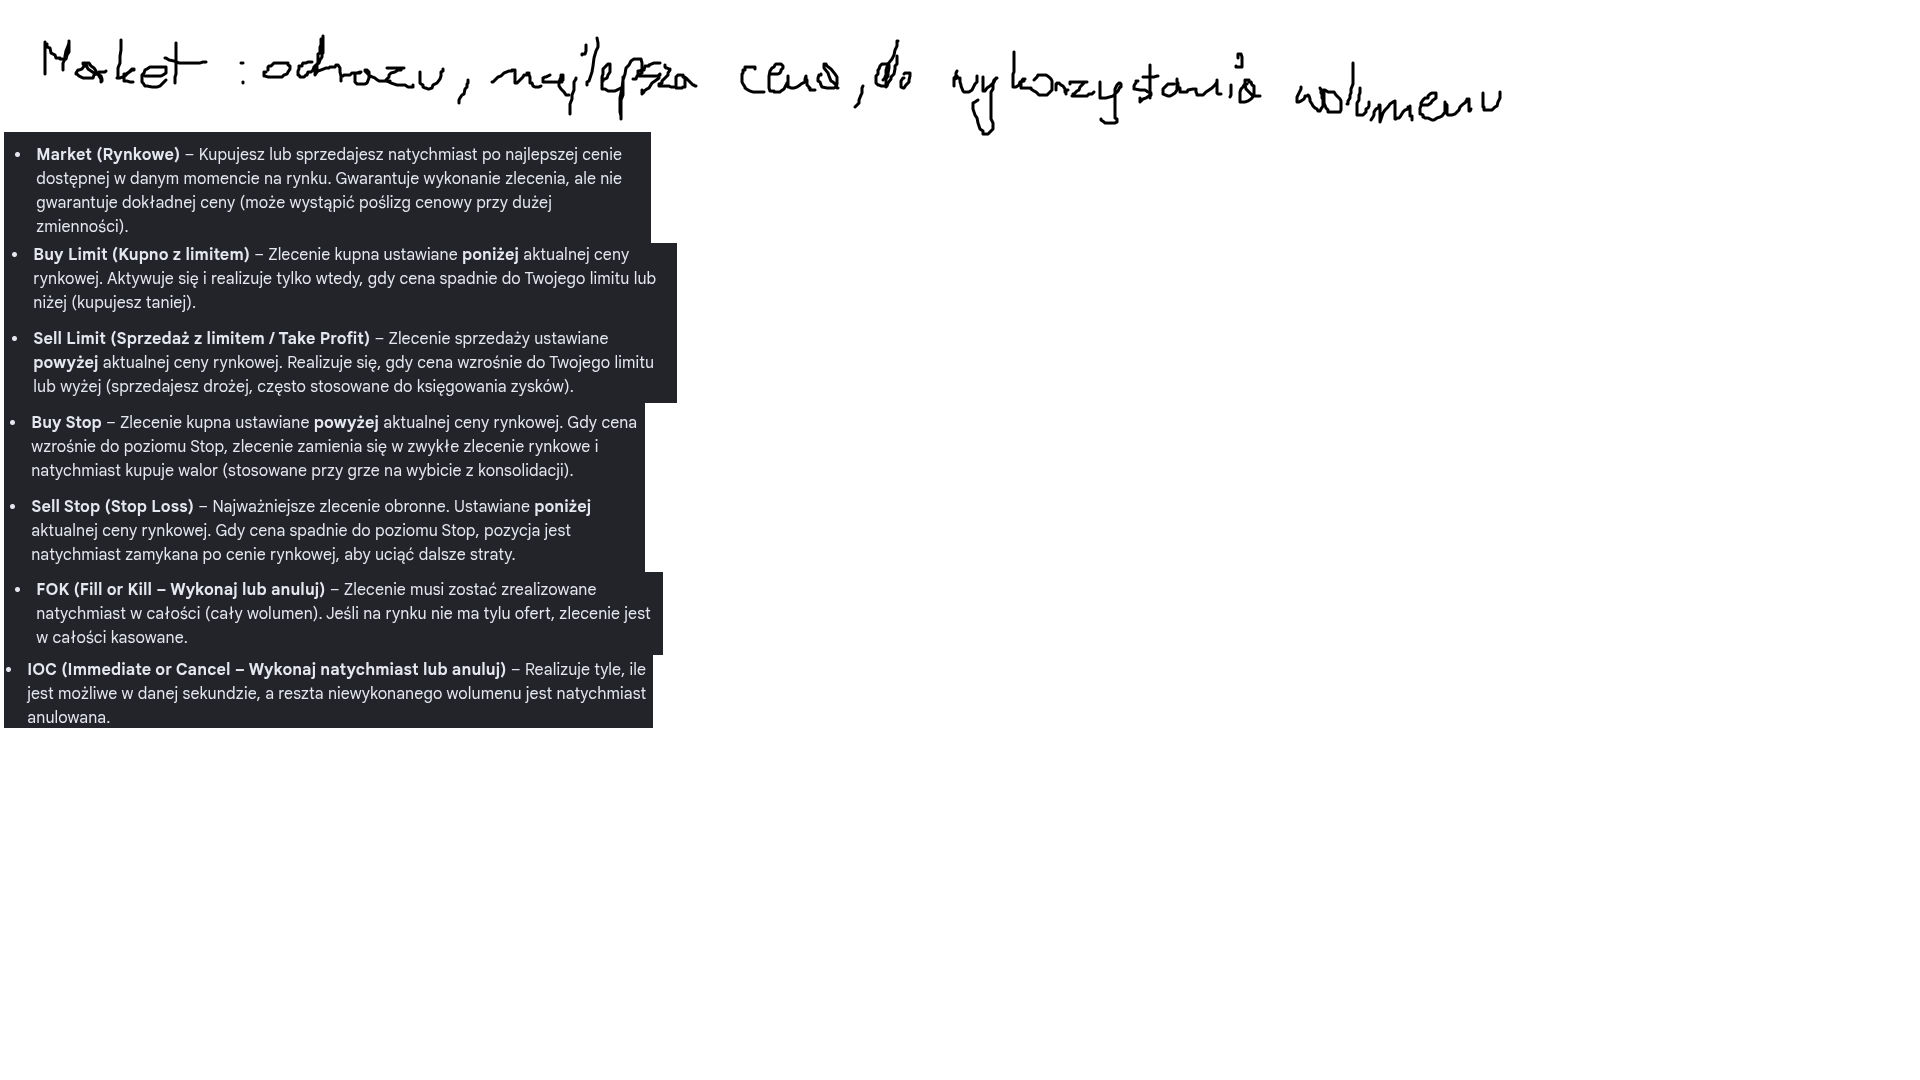
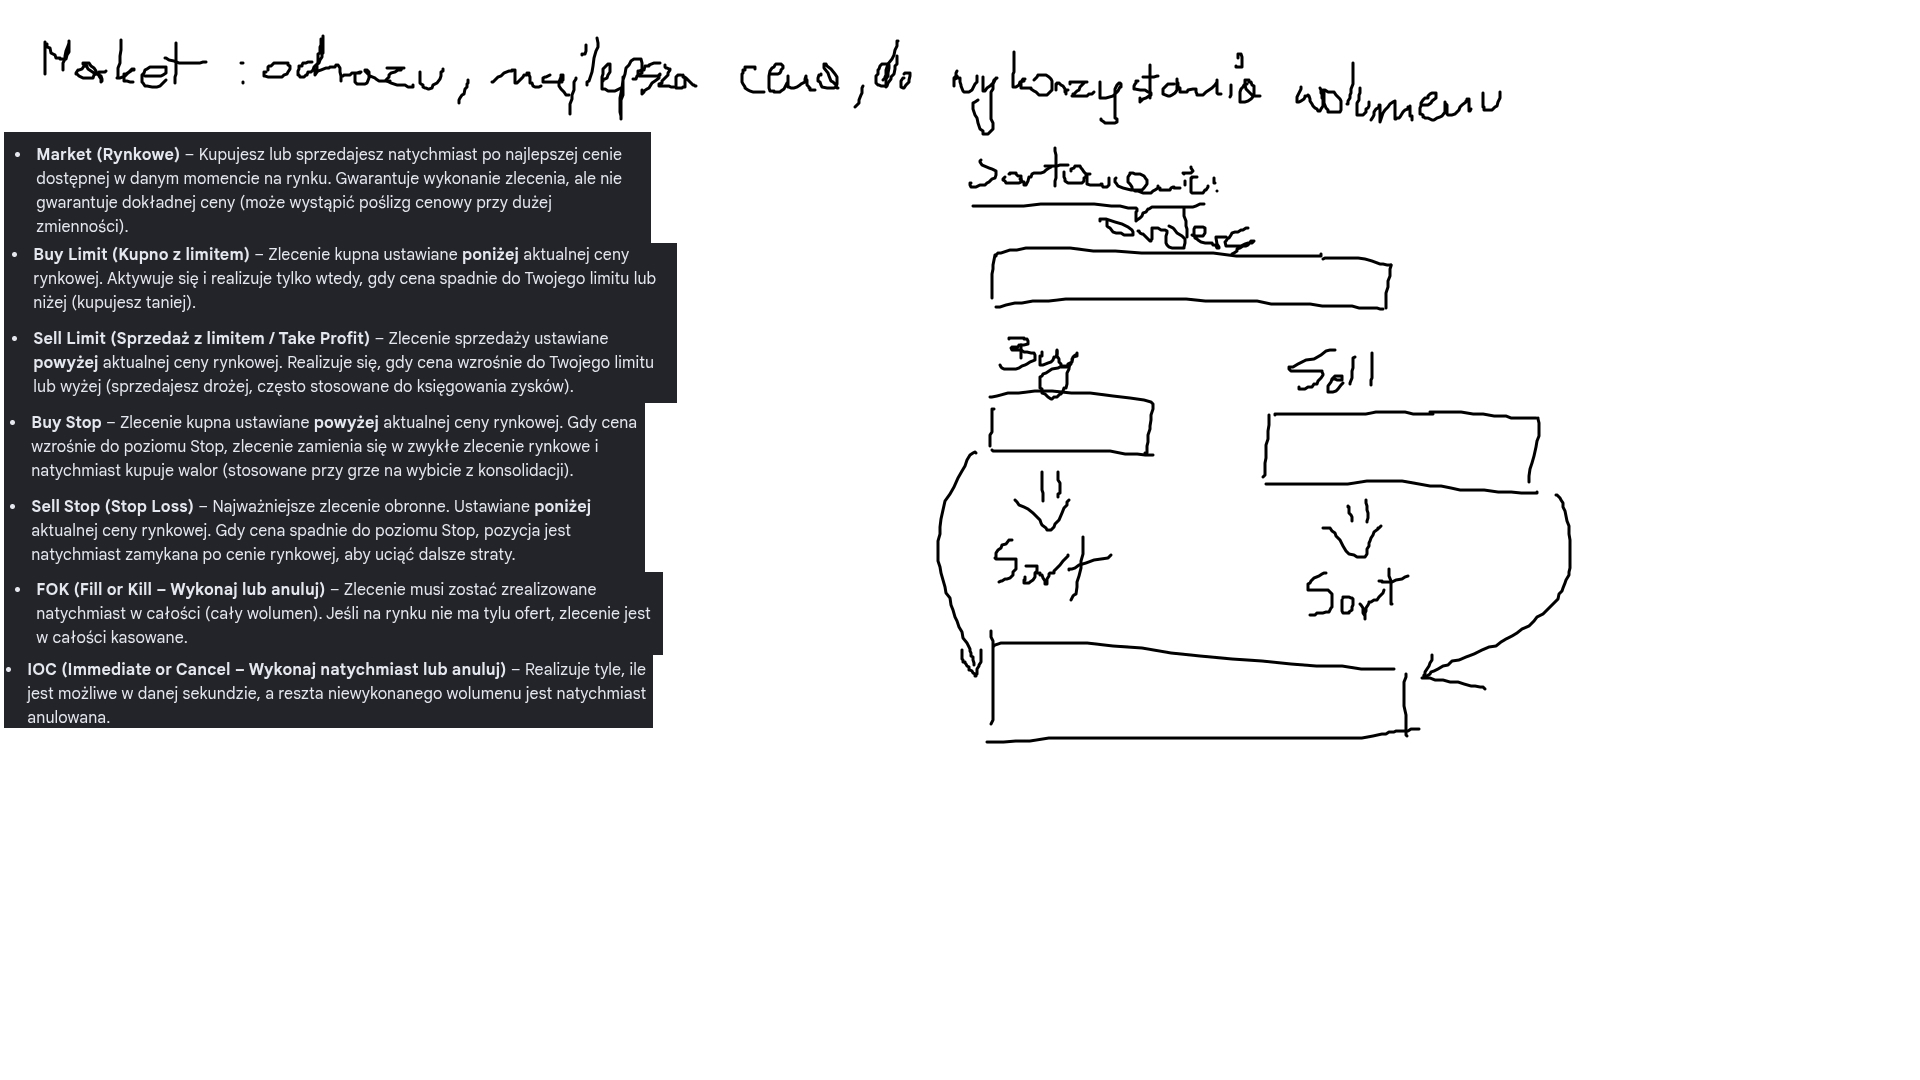
Added Meyers Singleton for OrderBook class, designing TUI for orders, user menu

diff --git a/main.cpp b/main.cpp
@@ -4,6 +4,12 @@
 
 #include "OrderBook.h"
 
+#define RESET   "\033[0m"
+#define RED     "\033[31m"      /* Red */
+#define GREEN   "\033[32m"      /* Green */
+
+
+
 namespace ID {
 	size_t get_unique_id() {
 		static size_t id {};
@@ -12,17 +18,25 @@ namespace ID {
 	}
 }
 
-int main() {
+bool input_validation(int &user_choice) {
+	if (!(std::cin >> user_choice)) {
+		std::cin.clear();            
+		std::cin.ignore(1000, '\n'); 
+		return true;
+        }
+        return false;
+}
 
-	OrderBook ob("OrderBook");
+int main() {
+	std::string name { "Main OrderBook" };
+	auto &ob = OrderBook::getInstance(name);
+
 	// These pointers have ownership only for easy making an object, its only for a while	
 	std::unique_ptr<Order> order1 = std::make_unique<Order>(Order(ID::get_unique_id(), Order::Side::Buy, 4180.50, 22, Order::Type::Market)); 
 	std::unique_ptr<Order> order2 = std::make_unique<Order>(Order(ID::get_unique_id(), Order::Side::Buy, 4180.75, 15, Order::Type::Market));
 	std::unique_ptr<Order> order3 = std::make_unique<Order>(Order(ID::get_unique_id(), Order::Side::Sell, 4181.00, 18, Order::Type::Market)); //
 	std::unique_ptr<Order> order4 = std::make_unique<Order>(Order(ID::get_unique_id(), Order::Side::Sell, 4181.25, 5, Order::Type::Market)); 
 	std::unique_ptr<Order> order5 = std::make_unique<Order>(Order(ID::get_unique_id(), Order::Side::Buy, 4180.25, 20, Order::Type::Market));
-	std::unique_ptr<Order> order6 = std::make_unique<Order>(Order(ID::get_unique_id(), Order::Side::Buy, 4180.60, 2, Order::Type::Market));
-	//std::unique_ptr<Order> order7 = std::make_unique<Order>(Order(ID::get_unique_id(), Order::Side::Buy, 4181.25, 20, Order::Type::Market)); //
 	
 	// With these methods we are moving ownership to the vector of uniquepointers pointing to the each of the orders
 	ob.add_order(order1);
@@ -30,8 +44,6 @@ int main() {
 	ob.add_order(order3);
 	ob.add_order(order4);
 	ob.add_order(order5);
-	ob.add_order(order6);
-	//ob.add_order(order7);
 
 
 	int user_choice { };
@@ -42,7 +54,8 @@ int main() {
 		std::cout << "\nOption:"; 
 		std::cout << "\n1. Market"; 
 		std::cout << "\n2. Limit";
-		std::cout << "\nWybor: "; 
+		std::cout << "\n0. Quit";
+		std::cout << "\nChoose: "; 
 
         	if (!(std::cin >> user_choice)) {
 			std::cin.clear();            
@@ -52,10 +65,51 @@ int main() {
 
         	switch (user_choice) {
         		case 1: {
-				break;
+        			int user_choice { };
+				std::cout << "\nOption:";
+				std::cout << "\n1. Buy";
+				std::cout << "\n2. Sell";
+				std::cout << "\nChoose:";
+
+				if(input_validation(user_choice)) {
+					continue;
+				}
+
+
+				switch (user_choice) {
+					case 1: {
+							std::cout << "You choosed buy";
+							break;
+						}
+					case 2: {
+							std::cout << "You choosed sell";
+							break;
+						}
+				}
+			break;
 			}
 			case 2: {
-				break;
+        			int user_choice { };
+				std::cout << "\nOption:";
+				std::cout << "\n1. Buy";
+				std::cout << "\n2. Sell";
+				std::cout << "\nChoose:";
+	
+				if(input_validation(user_choice)) {
+					continue;
+				}
+
+				switch (user_choice) {
+					case 1: {
+							std::cout << "You choosed buy";
+							break;
+						}
+					case 2: {
+							std::cout << "You choosed sell";
+							break;
+						}
+				}
+			break;
 			}
 		}
 

diff --git a/OrderBook.h b/OrderBook.h
@@ -16,6 +16,14 @@
 #include <string>
 #include <vector>
 
+
+#define RESET   "\033[0m"
+#define RED     "\033[31m"      /* Red */
+#define GREEN   "\033[32m"      /* Green */
+#define YELLOW  "\033[33m"      /* Yellow */
+
+
+
 class Order {
 
 	public:
@@ -62,6 +70,8 @@ class OrderBook {
 
 		double m_bid_price { };
 		double m_ask_price { };
+
+		OrderBook(std::string name) : m_name(name) {}
 	
 		void sort_orders() {
 			if (orders.size() > 1){
@@ -97,10 +107,16 @@ class OrderBook {
 			}
 		}
 
-
 	public:
-		OrderBook(std::string name) : m_name(name) {}
 		~OrderBook() = default;
+
+		static OrderBook& getInstance(std::string& name) {
+			static OrderBook instance(name);
+			return instance;
+		}
+
+		OrderBook(const OrderBook& other) = delete;
+		void operator=(const OrderBook& other) = delete;
 
 		const std::string& get_name() const {
 			return m_name;
@@ -121,6 +137,12 @@ class OrderBook {
 		double get_bid_price() const {
 			return m_bid_price;
 		}
+
+		double calc_spread() const {
+			return m_ask_price - m_bid_price;	
+		}
+
+
 		
 		void add_order(std::unique_ptr<Order>& order) {
 				// Jesli mamy taka sama cene oraz taki sam typ to trzeba zmienic wolumen juz istniejacego w vectorze orderu a nie nowy
@@ -134,6 +156,7 @@ class OrderBook {
 				sort_orders();
 				// Aktualizuje ceny bid i ask				
 				update_bid_ask();
+				
 			
 		}
 
@@ -150,28 +173,22 @@ class OrderBook {
 		}
 
 		void print_all_orders() const {
-			size_t counter { 1 };
 			std::cout << "\n======= ORDERS FOR " << "'"<< get_name() << "'"<< "=======" << std::endl;
-			std::cout << "\n 	Current ASK price: " << get_ask_price() << std::endl;
-			std::cout << "\n	Current BID price: " << get_bid_price() << std::endl;
+			//std::cout << "\n 	Current ASK price: " << get_ask_price() << std::endl;
+			//std::cout << "\n	Current BID price: " << get_bid_price() << std::endl;
 			for (auto &order : orders) {
 				if ( order->get_side() == Order::Side::Sell){
-					std::cout << "\nOrder number: " << counter << std::endl;
-					std::cout << "Order ID: " << order->get_id() << std::endl;
-					std::cout << order->get_price() << " ";
-					std::cout << order->get_quantity() << " ";
-					std::cout << "Sell" << std::endl;	
-					counter++;
+					std::cout << RED <<"\nID: " << order->get_id() << " (Sell)"<< RESET << std::endl;
+					std::cout << "Price: " << order->get_price() << std::endl;
+					std::cout << "Quantity: " << order->get_quantity() << std::endl;
 				}
 			}
+			std::cout << YELLOW <<"\n---------------" << " Spread: " << calc_spread() <<" pts."<< RESET << std::endl;
 			for (auto &order : orders) {
 				if (order->get_side() == Order::Side::Buy) {
-					std::cout << "\nOrder number: " << counter << std::endl;
-					std::cout << "Order ID: " << order->get_id() << std::endl;
-					std::cout << order->get_price() << " ";
-					std::cout << order->get_quantity() << " ";
-					std::cout << "Buy" << std::endl;	
-					counter++;
+					std::cout << GREEN << "\nID: " << order->get_id() << " (Buy)"<< RESET << std::endl;
+					std::cout << "Price: " << order->get_price() << std::endl;
+					std::cout << "Quantity: " << order->get_quantity() << std::endl;
 				}
 			}
 			
